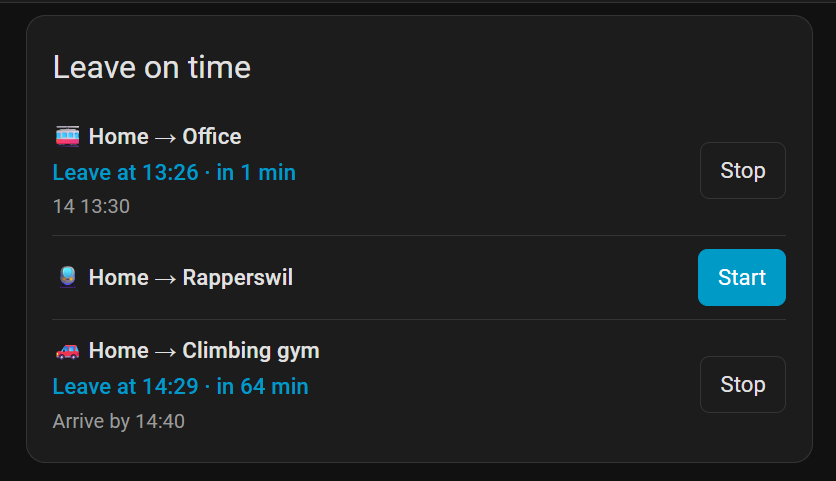
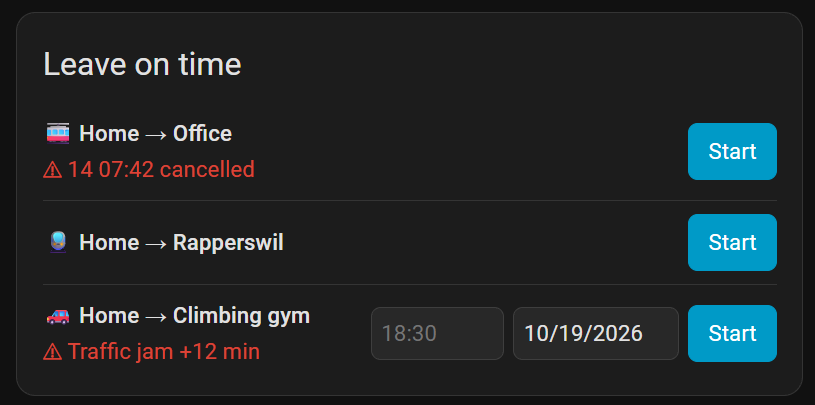
Prepare 0.3.0
Bump the version and write the changelog for the watchdog and "Announce on"
release, and retake the routes, settings and card screenshots so the README
shows the new watch fields, the announce setting and problem lines.

diff --git a/README.md b/README.md
@@ -15,19 +15,19 @@ Everything is set up on one sidebar page, no YAML. Announcements are in German (
 
 ## Screenshots
 
-**Routes:** one tap to start; a running route shows when to leave and which tram it catches.
+**Routes:** one tap to start. The watchdog flags a cancelled tram; the open car route is watched on weekday evenings and alerts from 10 minutes of traffic.
 
-![Routes tab with a running route](docs/screenshots/routes.png)
+![Routes tab with a watchdog problem and a route form with watch times](docs/screenshots/routes.png)
 
 **Places and stations:** each place has its stations with the walking time; the search shows what stops there, so the train station is easy to tell from the tram stop outside.
 
 ![Places tab with stations and a station search](docs/screenshots/places.png)
 
-**Settings:** speaker, language and your own announcement texts.
+**Settings:** speaker, language, where announcements go, and your own announcement texts.
 
 ![Settings tab with the message templates](docs/screenshots/settings.png)
 
-**Dashboard card:** start routes and set "arrive by" for the car.
+**Dashboard card:** start routes, set "arrive by" for the car, and see watchdog problems.
 
 <img src="docs/screenshots/card.png" alt="Andiamo dashboard card" width="420">
 

diff --git a/CHANGELOG.md b/CHANGELOG.md
@@ -1,10 +1,10 @@
 # Changelog
 
-## Unreleased
+## 0.3.0 - 2026-10-19
 
 ### New
 
-- Watchdog: a route can be watched on chosen days and times. Its new problem sensor turns on when traffic, a delay or a cancellation crosses the route's limit (default 15 minutes), so automations can react.
+- A route can be watched on chosen days and times. Its new problem sensor turns on when traffic, a delay or a cancellation reaches the route's "Alert when late by" limit (default 15 minutes).
 - "Announce on" (Speaker, Notification or Off) replaces test mode; each route can choose its own. Test mode turned on becomes Notification.
 - The leave-at sensor keeps the last announcement in its `message` attribute, also after "go now".
 
